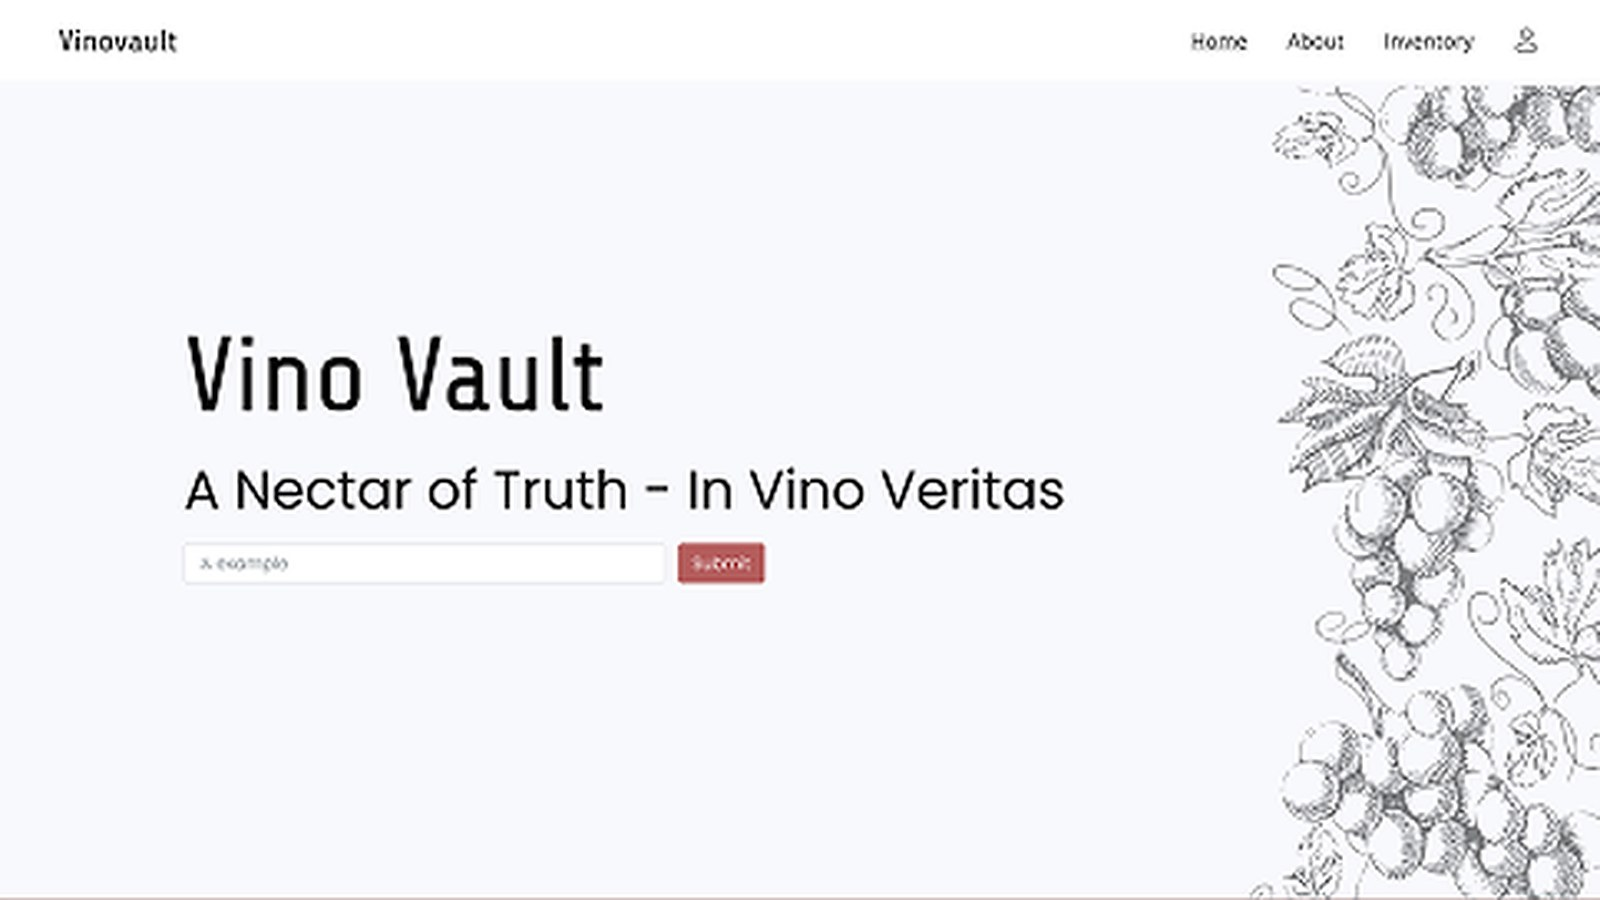
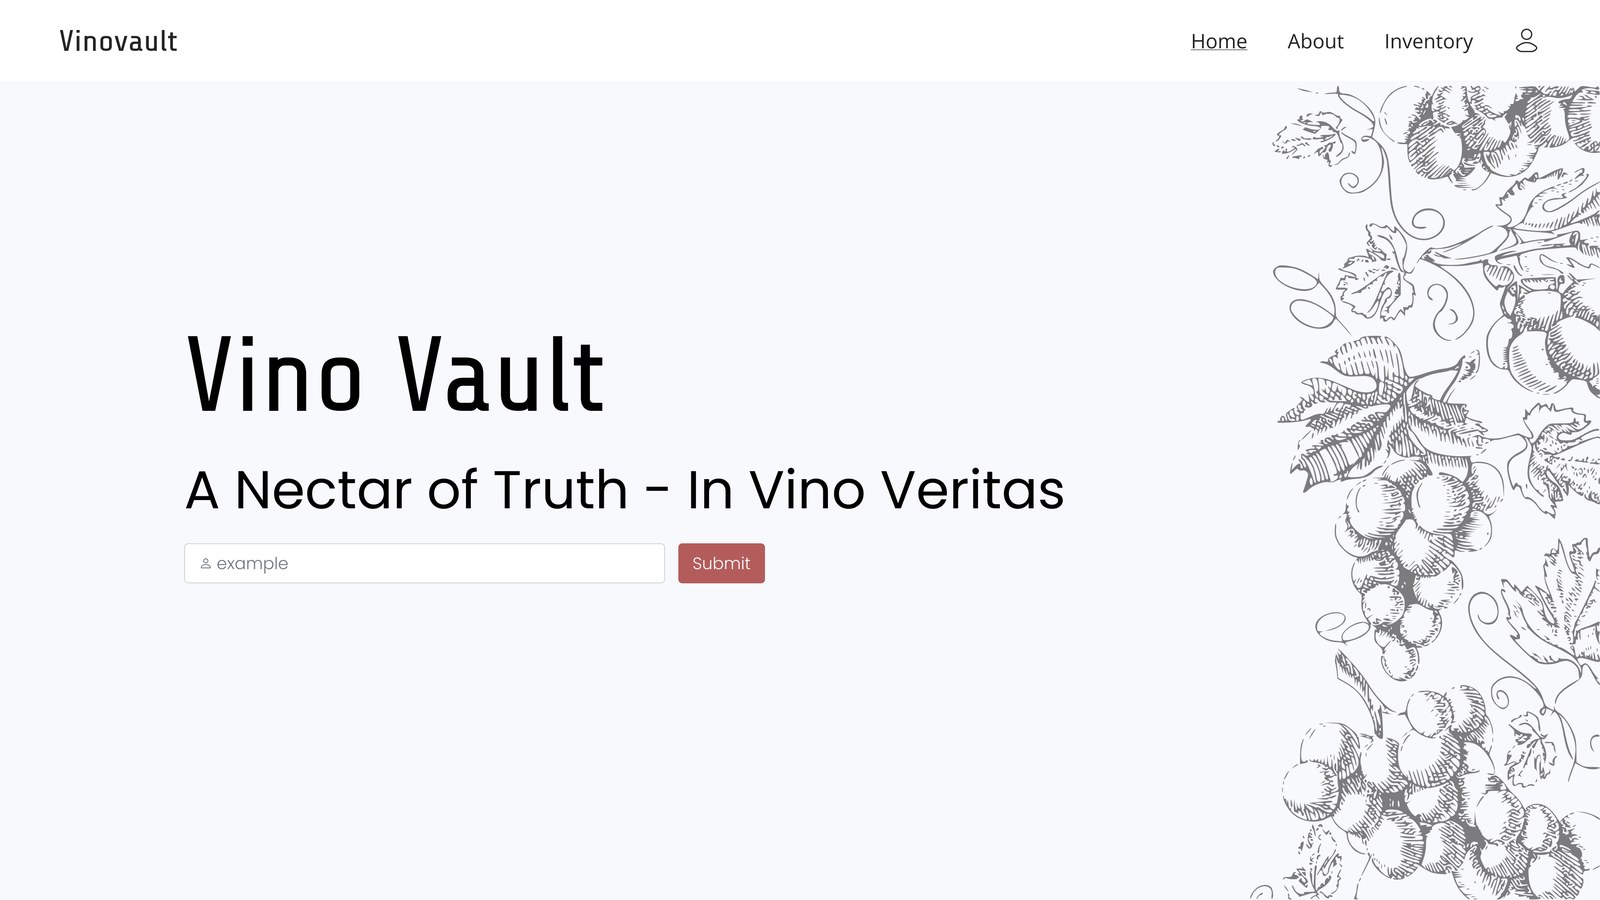
feat(projects): add WoodCraft, pull MyRT and Vino Vault assets from Figma
WoodCraft (UAS RPL 2023, group of four) was in his selected-work Figma
list but missing from the site. MyRT and Vino Vault now use their Figma
artboards instead of upscaled local screenshots: MyRT as a two-screen
board, Vino Vault from the 1920-wide landing page.

diff --git a/src/data/projects.js b/src/data/projects.js
@@ -584,25 +584,96 @@ export const projects = [
     "kicker": "Course & exploration project",
     "year": "2023",
     "role": "UI/UX Designer & mobile front-end developer",
-    "image": null,
+    "image": "/projects/myrt.jpg",
     "tags": [
       "Flutter",
       "Figma",
       "Mobile UX"
     ],
-    "summary": "Mobile app concept for neighbourhood-level population data, residents, guests, schedules, and reports.",
-    "details": "Designed the user experience and implemented the mobile front end in Flutter for a neighbourhood administration concept covering residents, guests, schedules and reports for the local head.",
-    "metrics": [],
+    "summary": "Neighbourhood population app with two roles: the RT head files reports and sees the resident data, the resident files their own.",
+    "details": "MyRT replaces the paper book a neighbourhood head keeps. The app opens on a greeting that offers Data, List Tamu and Jadwal, and the report form asks for a title, a type and the body before Kirim Laporan. Eleven screens cover the two sides of it, the RT head and the resident, with login, register, email verification and password recovery sitting in front of both. The interface was designed in Figma with its own type and colour sheet, then implemented in Flutter.",
+    "metrics": [
+      {
+        "label": "Screens",
+        "value": "11"
+      },
+      {
+        "label": "Roles",
+        "value": "2"
+      },
+      {
+        "label": "Sections",
+        "value": "Data · Tamu · Jadwal"
+      }
+    ],
     "case": {
-      "context": "Population data at the neighbourhood (RT) level is usually kept on paper, which makes reporting slow for the local head.",
+      "context": "Population data at the neighbourhood level is usually kept in a paper book, which makes reporting slow for the RT head and leaves residents with no way to file anything themselves.",
       "approach": [
-        "Designed the flows for residents, guests, schedules and reports.",
-        "Implemented the mobile front end in Flutter."
+        "Split the app by role rather than by feature, so the RT head and the resident get their own home, report and data screens instead of one screen with hidden controls.",
+        "Kept the resident home to three entries (Data, List Tamu, Jadwal) so the app opens on the three things a neighbourhood actually asks about.",
+        "Reduced the report form to a title, a type and a body, with a single Kirim Laporan action.",
+        "Put login, register, email verification and password recovery in front of both roles.",
+        "Designed the type and colour sheet in Figma before implementing the front end in Flutter."
       ],
       "deliverables": [
-        "Mobile app UI.",
+        "Eleven screens across the RT head and resident roles.",
+        "Report flow with title, type and body.",
+        "Data, guest list and schedule sections.",
+        "Login, register, verify email and forgot password.",
         "Flutter front end."
-      ]
+      ],
+      "limits": "Course and exploration project. The resident data in the screens is placeholder content, and the app was built as a student exercise rather than deployed for a real neighbourhood."
+    }
+  },
+  {
+    "slug": "woodcraft",
+    "title": "WoodCraft — House of Wood",
+    "kicker": "UAS RPL · Software engineering final exam · 2023",
+    "year": "2023",
+    "role": "Brand and interface design, team of four",
+    "image": "/projects/woodcraft.jpg",
+    "tags": [
+      "Branding",
+      "Web Design",
+      "PHP"
+    ],
+    "summary": "Brand and storefront for a fictional Bandung furniture house: a logo built from wood grain, a brown identity, and a site that sells default or custom pieces.",
+    "details": "WoodCraft was the final exam for a software engineering course, built by a group of four. The work runs from the identity to the site: a glyph made of wood grain forming a house, a brown palette argued in the guidelines, typography rules and logo lockups, then the storefront, a home page with testimonials, a products index of finished rooms, about, contact, login, register and a cart. The front end is HTML, CSS and JavaScript, the back end PHP with MySQL, versioned in Git.",
+    "metrics": [
+      {
+        "label": "Screens",
+        "value": "8"
+      },
+      {
+        "label": "Guideline pages",
+        "value": "11"
+      },
+      {
+        "label": "Team",
+        "value": "4"
+      },
+      {
+        "label": "Stack",
+        "value": "JS · PHP · MySQL"
+      }
+    ],
+    "case": {
+      "context": "The course's final exam asked for a working web product with the brand work that goes with it. The team picked a fictional Bandung furniture company selling Indonesian wood, where a customer can order a default model or ask for one built to their own specification.",
+      "approach": [
+        "Wrote the brand guidelines first, logo, glyph, colour styles, typography and lockups, so the site had rules to follow instead of a mood.",
+        "Built the glyph from wood grain forming the shape of a house, and set the identity in browns arguing warmth and stability rather than a luxury veneer.",
+        "Laid the storefront out in the order a buyer moves: home with testimonials, our works, products, a chosen piece, then the cart and the account screens.",
+        "Held the contact form, login and register inside the same header and footer so the site reads as one system rather than pages stitched together.",
+        "Built it on HTML, CSS and JavaScript with a PHP back end and MySQL, versioned in Git across four people."
+      ],
+      "deliverables": [
+        "Brand guidelines: glyph, logo, colour styles, typography and lockups.",
+        "Home with testimonials, workshop and forest sections.",
+        "Products index, product detail and cart.",
+        "About, contact, login and register.",
+        "Front end in HTML, CSS and JavaScript, back end in PHP with a MySQL database."
+      ],
+      "limits": "Final-exam group project for a software engineering course, built by four people. The company is fictional: the address, phone number, cart total and testimonials in the screens are placeholders."
     }
   },
   {
